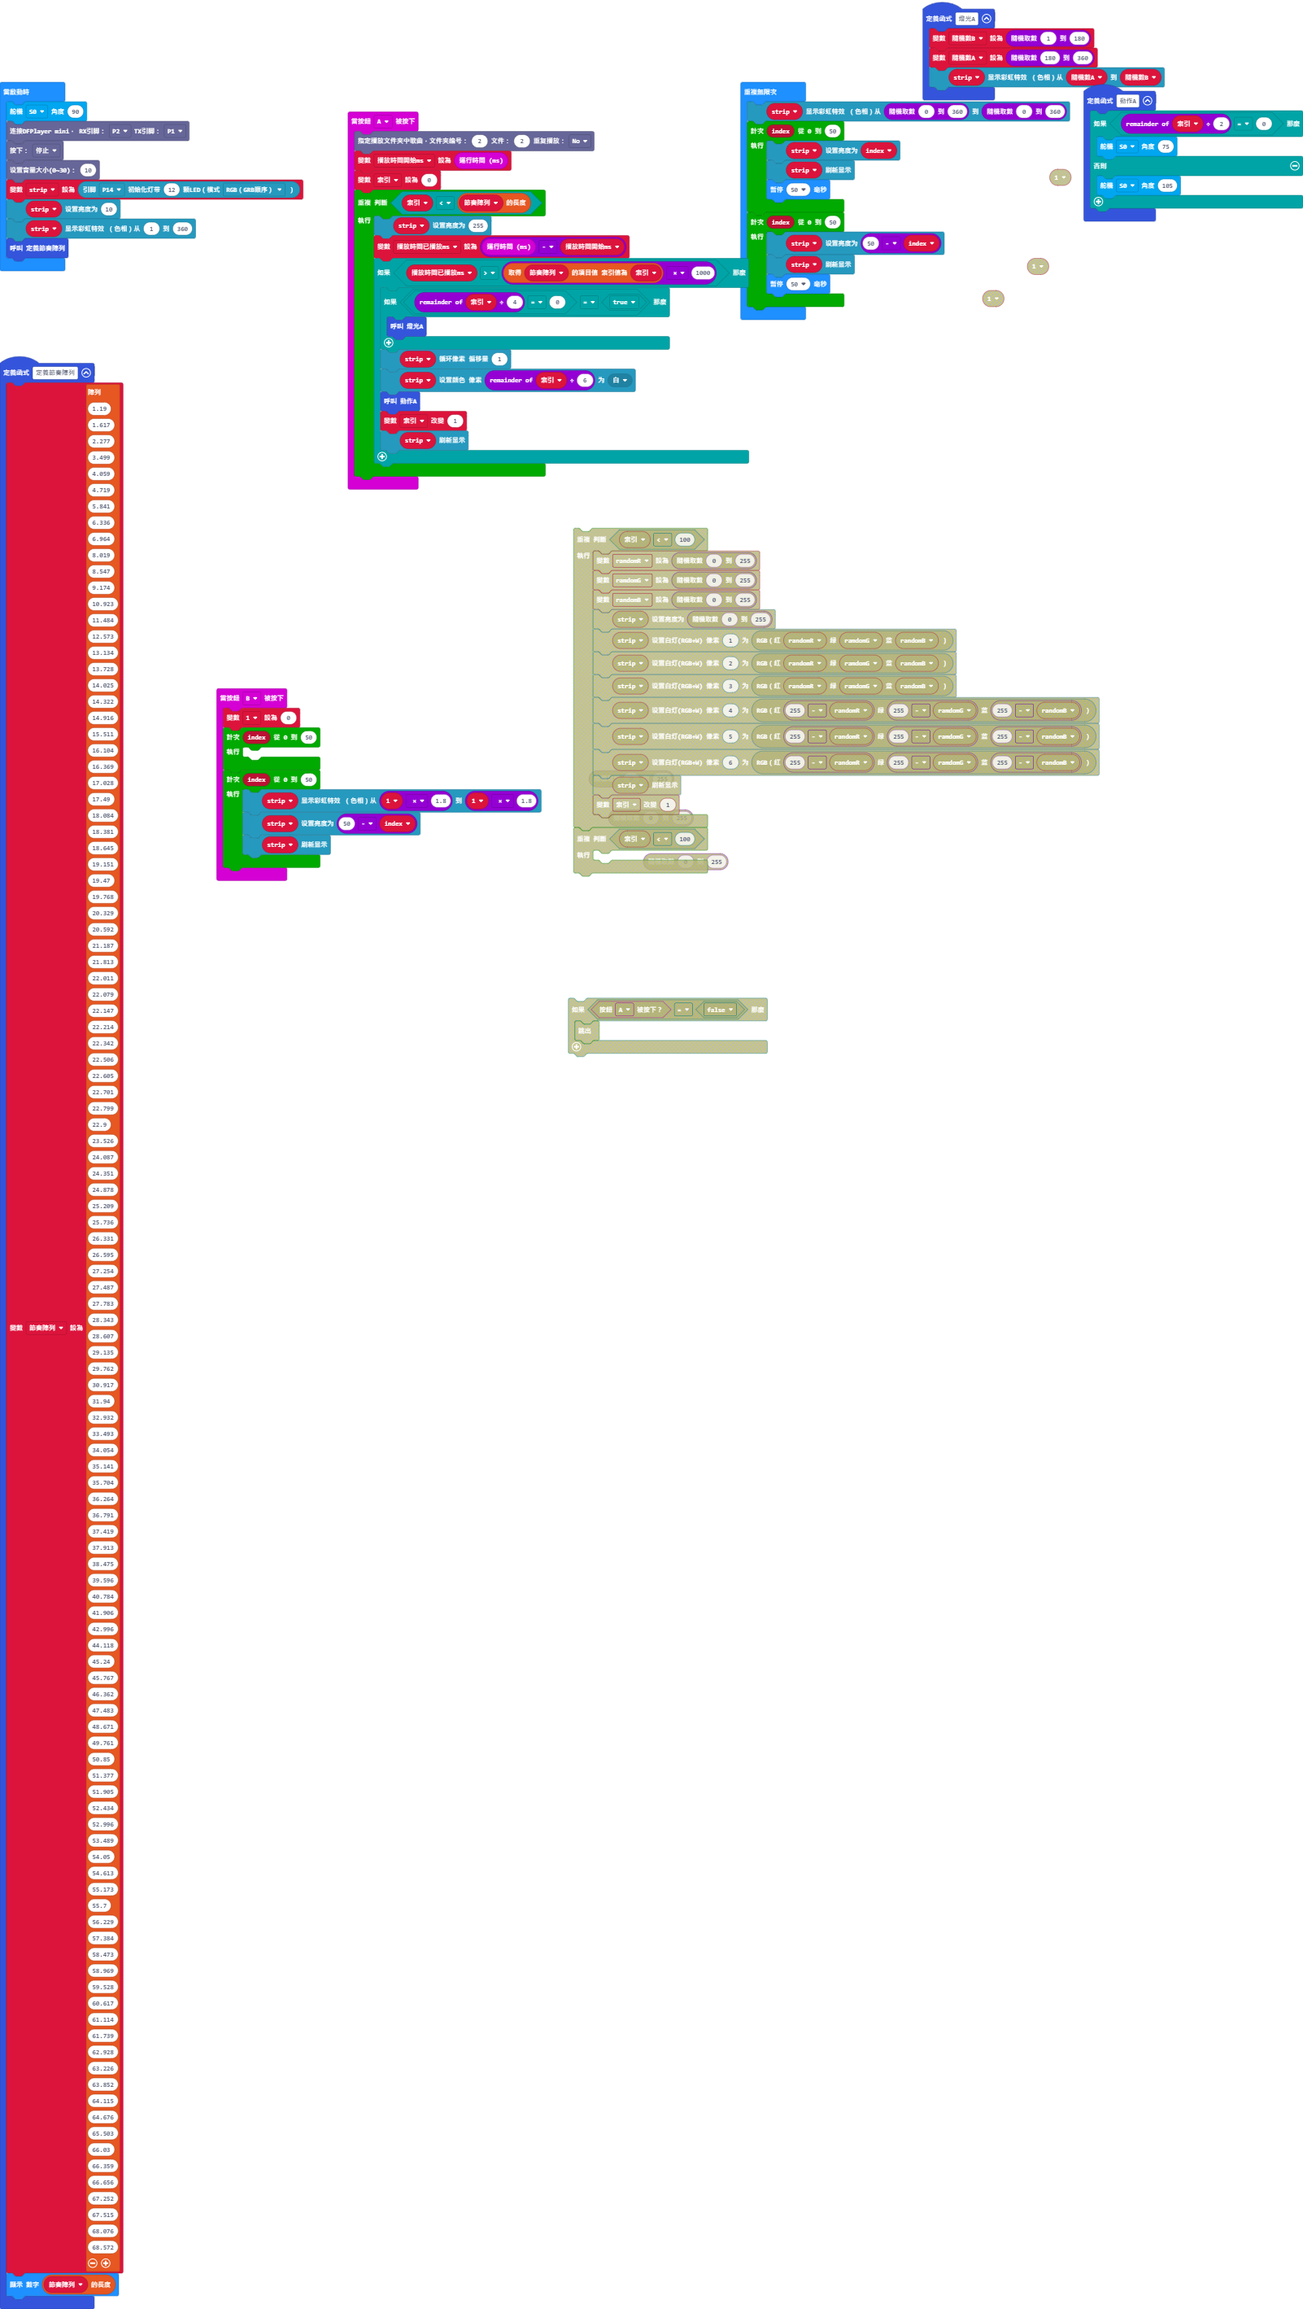
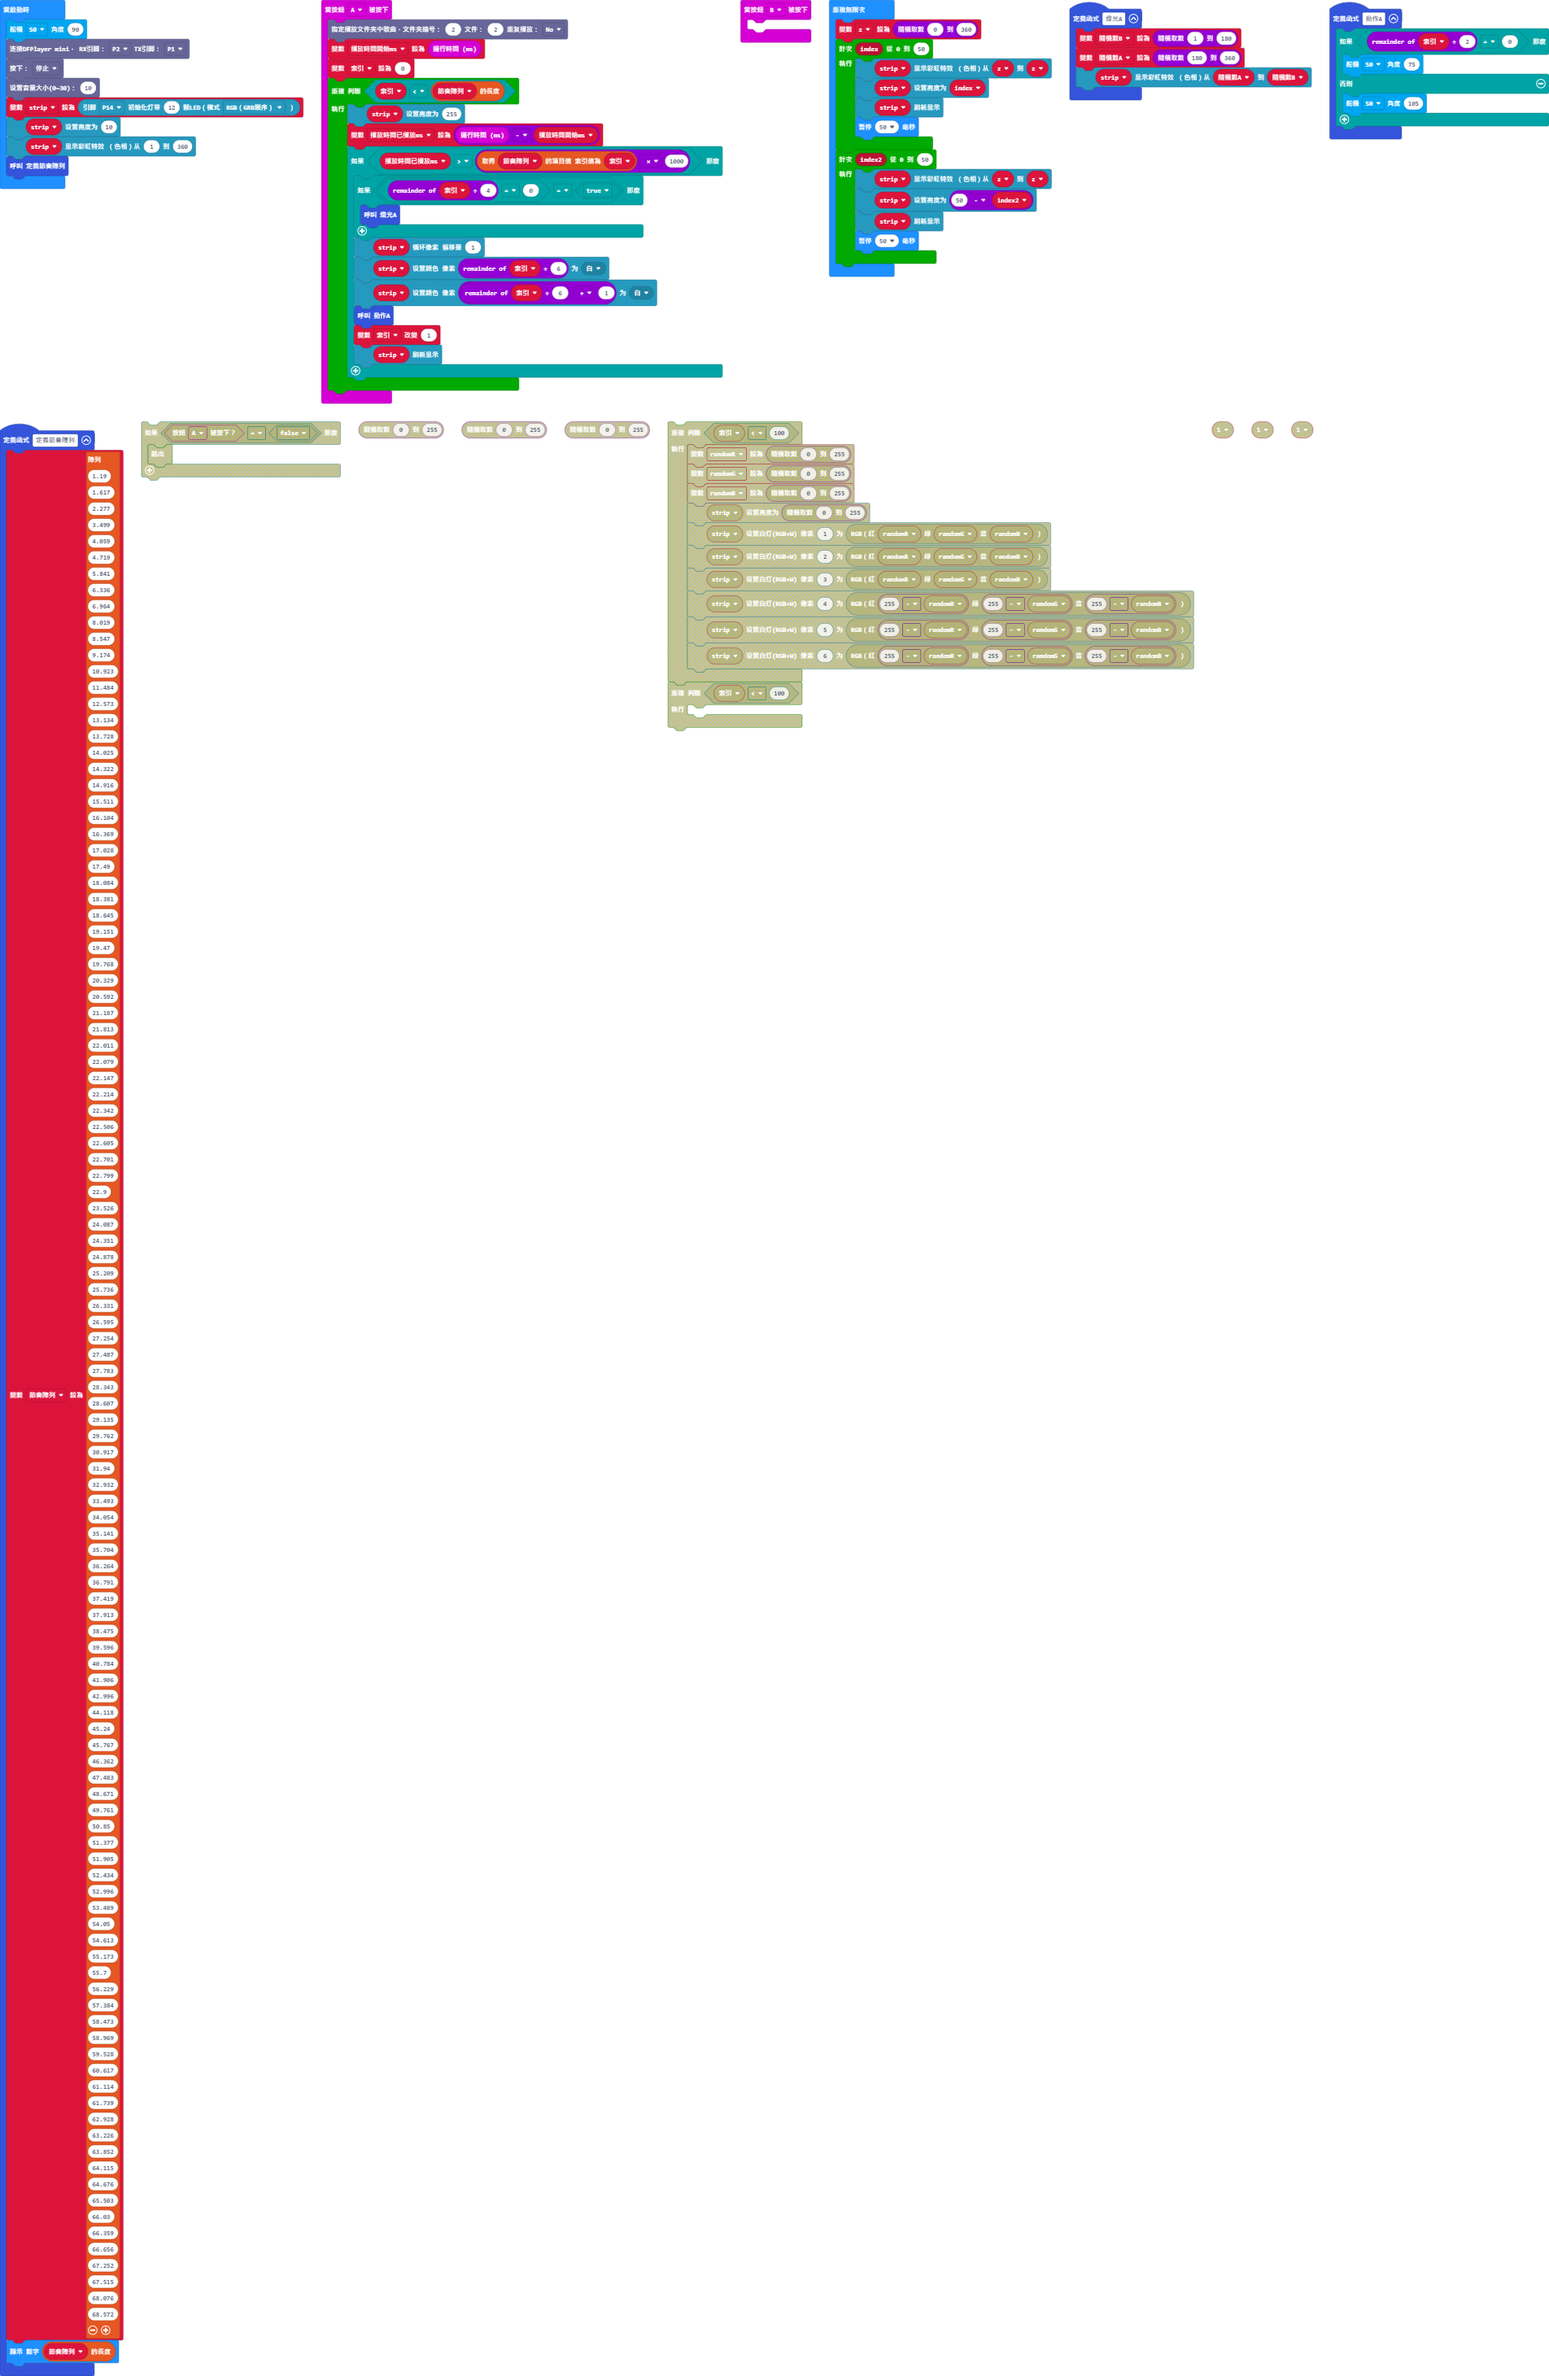
最終版

diff --git a/main.ts b/main.ts
@@ -11,6 +11,7 @@ input.onButtonPressed(Button.A, function () {
             }
             strip.rotate(1)
             strip.setPixelColor(索引 % 6, neopixel.colors(NeoPixelColors.White))
+            strip.setPixelColor(索引 % 6 + 1, neopixel.colors(NeoPixelColors.White))
             動作A()
             索引 += 1
             strip.show()
@@ -149,16 +150,9 @@ function 定義節奏陣列 () {
     basic.showNumber(節奏陣列.length)
 }
 input.onButtonPressed(Button.B, function () {
-    _1 = 0
-    for (let index = 0; index <= 50; index++) {
-    	
-    }
-    for (let index = 0; index <= 50; index++) {
-        strip.showRainbow(_1 * 1.8, _1 * 1.8)
-        strip.setBrightness(50 - index)
-        strip.show()
-    }
+	
 })
+let z = 0
 let 隨機數A = 0
 let 隨機數B = 0
 let 播放時間已播放ms = 0
@@ -166,7 +160,6 @@ let 節奏陣列: number[] = []
 let 索引 = 0
 let 播放時間開始ms = 0
 let strip: neopixel.Strip = null
-let _1 = 0
 KSB048.Servo(KSB048.ServoNum.S0, 90)
 dfplayermini.connect(SerialPin.P2, SerialPin.P1)
 dfplayermini.press(dfplayermini.playType.Stop)
@@ -176,14 +169,16 @@ strip.setBrightness(10)
 strip.showRainbow(1, 360)
 定義節奏陣列()
 basic.forever(function () {
-    strip.showRainbow(randint(0, 360), randint(0, 360))
+    z = randint(0, 360)
     for (let index = 0; index <= 50; index++) {
+        strip.showRainbow(z, z)
         strip.setBrightness(index)
         strip.show()
         basic.pause(50)
     }
-    for (let index = 0; index <= 50; index++) {
-        strip.setBrightness(50 - index)
+    for (let index2 = 0; index2 <= 50; index2++) {
+        strip.showRainbow(z, z)
+        strip.setBrightness(50 - index2)
         strip.show()
         basic.pause(50)
     }
